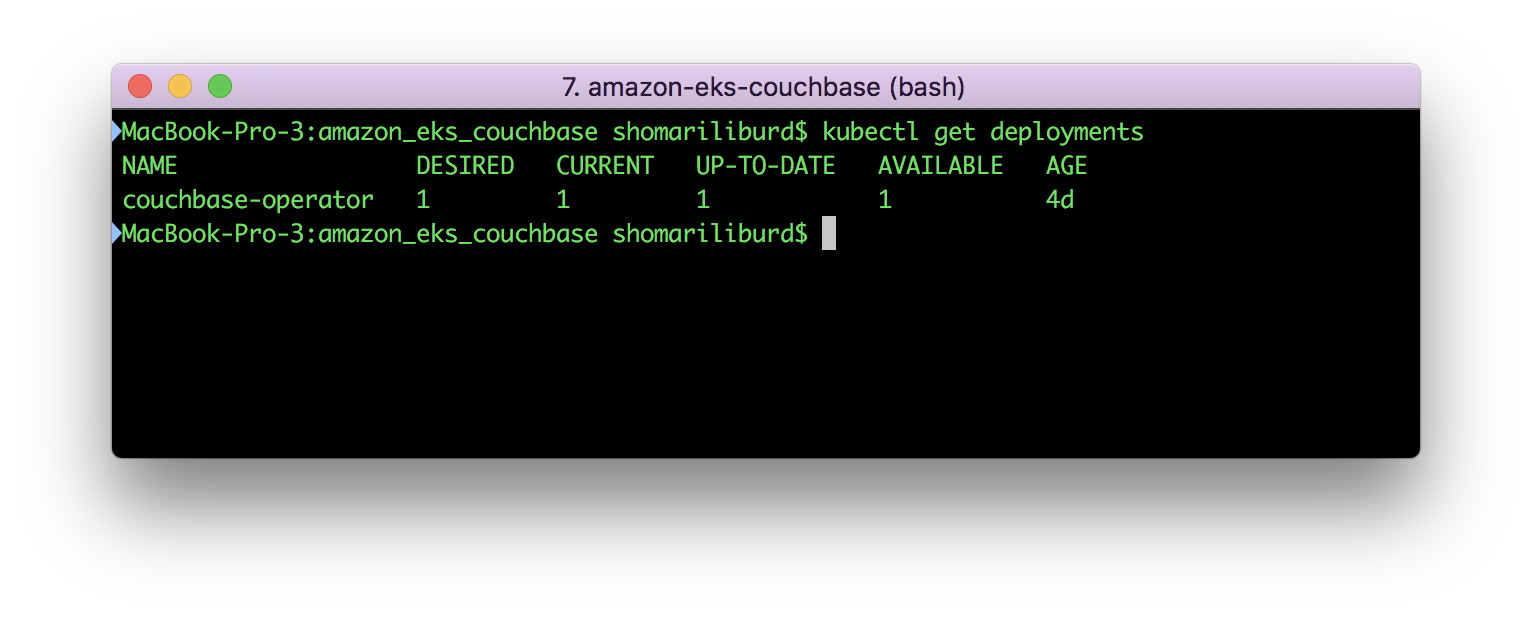
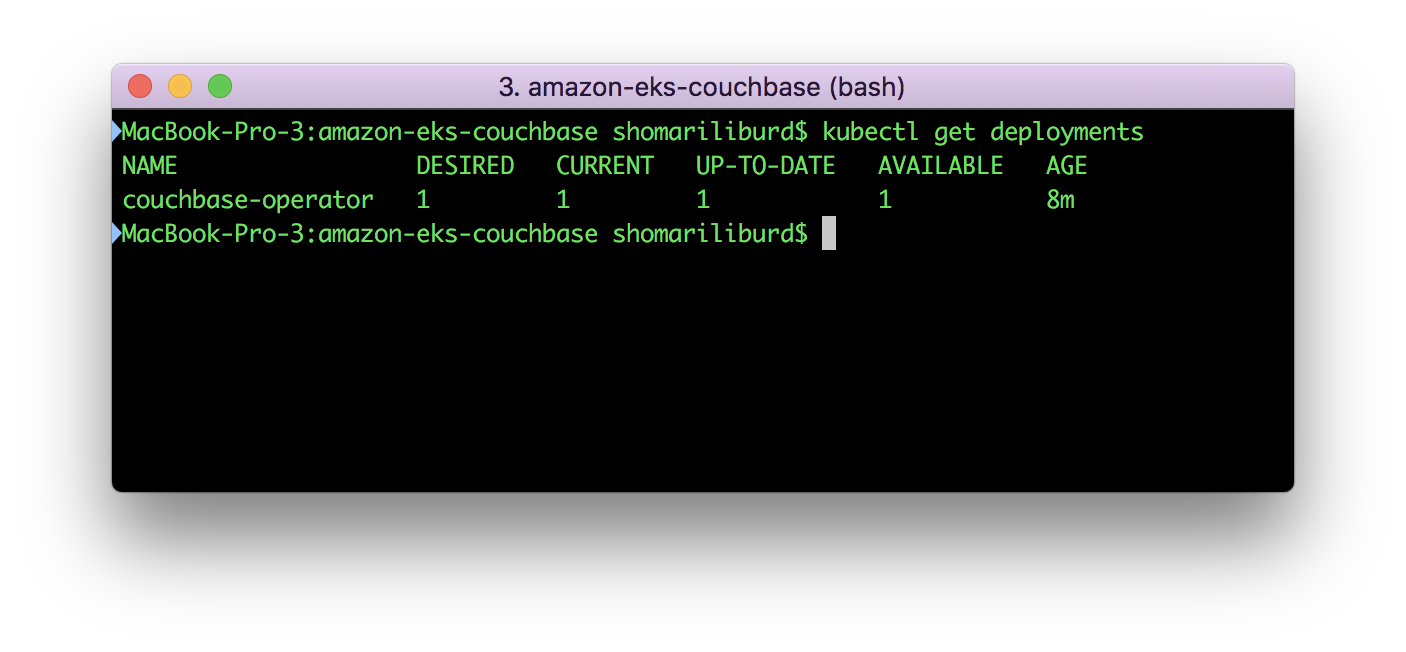
New images for the webui section.  Image and text cleanup as well.

Changed region(s): [[0.0612, 0.0922, 0.9481, 0.7686], [0.6728, 0.3074, 0.7034, 0.3382]]

diff --git a/README.md b/README.md
@@ -209,7 +209,7 @@ The Couchbase Operator is all set to manage Couchbase clusters.  We create a Cou
 
 We should be able to see something like this:
 
-![couchbasecreated](/images/EKS_kubectl_get_deployments.png)
+![couchbasecreated](/images/EKS_couchbase_created.png)
 
 We can view the all of the pods by running:
 
@@ -232,7 +232,7 @@ We need to make sure we leave the command running in the terminal:
 
 Now we can open up a browser at http://localhost:8091
 
-![loginscreen](/images/GKE_loginscreen.png)
+![loginscreen](/images/EKS_login.png)
 
 We will login using username=`Administrator` and password=`password`.
 
